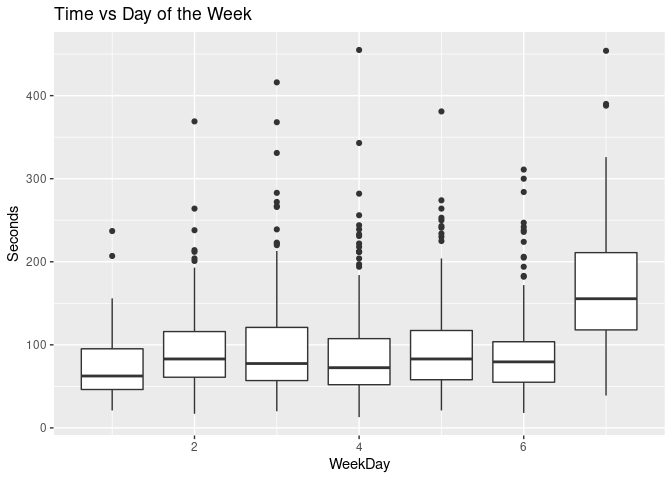
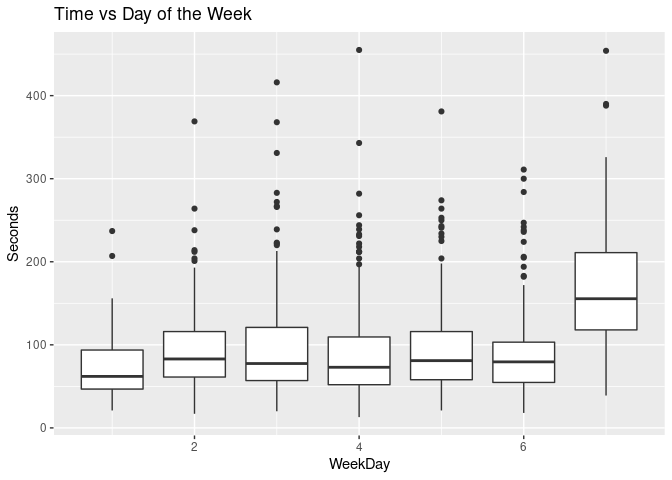
Added new data, updated report

diff --git a/analysis/nyt_mini_crossword.md b/analysis/nyt_mini_crossword.md
@@ -1,7 +1,7 @@
 ---
 title: "New York Time Mini Crossword"
 author: "Stephen Kaluzny"
-date: "12 September, 2021"
+date: "19 September, 2021"
 output:
   html_document:
     keep_md: true
@@ -172,7 +172,7 @@ d %>%
 
 ## Summary Statistics
 
-Current data set has 1128 observations.
+Current data set has 1140 observations.
 
 
 ```r
@@ -187,10 +187,10 @@ d %>% group_by(Player) %>%
 ##   <chr>  <dbl>  <dbl> <dbl> <dbl> <int>
 ## 1 SKK     51       47    21    89     4
 ## 2 AKK     55       55    55    55     1
-## 3 JIK     79.9     62    13   264   211
-## 4 JAK    103.      87    27   454   398
-## 5 BBK    117.     102    42   350    55
-## 6 SPK     NA       NA    NA    NA   459
+## 3 JIK     79.6     62    13   264   214
+## 4 JAK    103.      87    27   454   403
+## 5 BBK    117.     102    42   350    56
+## 6 SPK     NA       NA    NA    NA   462
 ```
 
 ## Subset the Data
@@ -205,7 +205,7 @@ d <- d %>%
   filter(Player %in% c("SPK", "JAK", "JIK"))
 ```
 
-Now have 1068 observations.
+Now have 1079 observations.
 
 ## Plots
 
@@ -352,11 +352,11 @@ sessionInfo()
 ##  [5] compiler_4.1.1   jquerylib_0.1.4  tools_4.1.1      digest_0.6.27   
 ##  [9] lubridate_1.7.10 jsonlite_1.7.2   evaluate_0.14    lifecycle_1.0.0 
 ## [13] tibble_3.1.4     gtable_0.3.0     pkgconfig_2.0.3  rlang_0.4.11    
-## [17] cli_3.0.1        DBI_1.1.1        yaml_2.2.1       xfun_0.25       
+## [17] cli_3.0.1        DBI_1.1.1        yaml_2.2.1       xfun_0.26       
 ## [21] fastmap_1.1.0    withr_2.4.2      stringr_1.4.0    knitr_1.34      
 ## [25] hms_1.1.0        generics_0.1.0   vctrs_0.3.8      sass_0.4.0      
 ## [29] rprojroot_2.0.2  grid_4.1.1       tidyselect_1.1.1 here_1.0.1      
-## [33] glue_1.4.2       R6_2.5.1         fansi_0.5.0      rmarkdown_2.10  
+## [33] glue_1.4.2       R6_2.5.1         fansi_0.5.0      rmarkdown_2.11  
 ## [37] farver_2.1.0     purrr_0.3.4      magrittr_2.0.1   scales_1.1.1    
 ## [41] ellipsis_0.3.2   htmltools_0.5.2  assertthat_0.2.1 colorspace_2.0-2
 ## [45] labeling_0.4.2   utf8_1.2.2       stringi_1.7.4    munsell_0.5.0   
